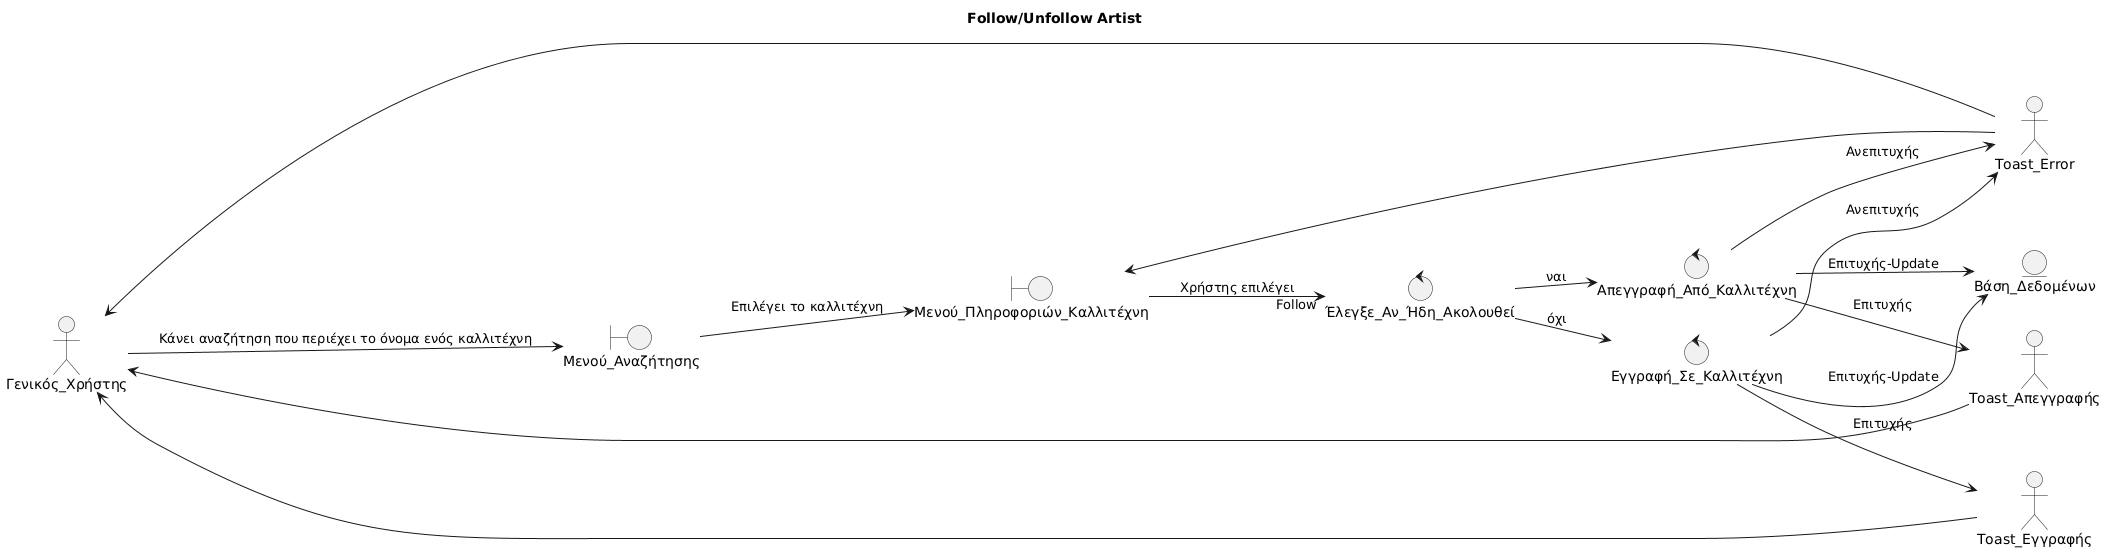
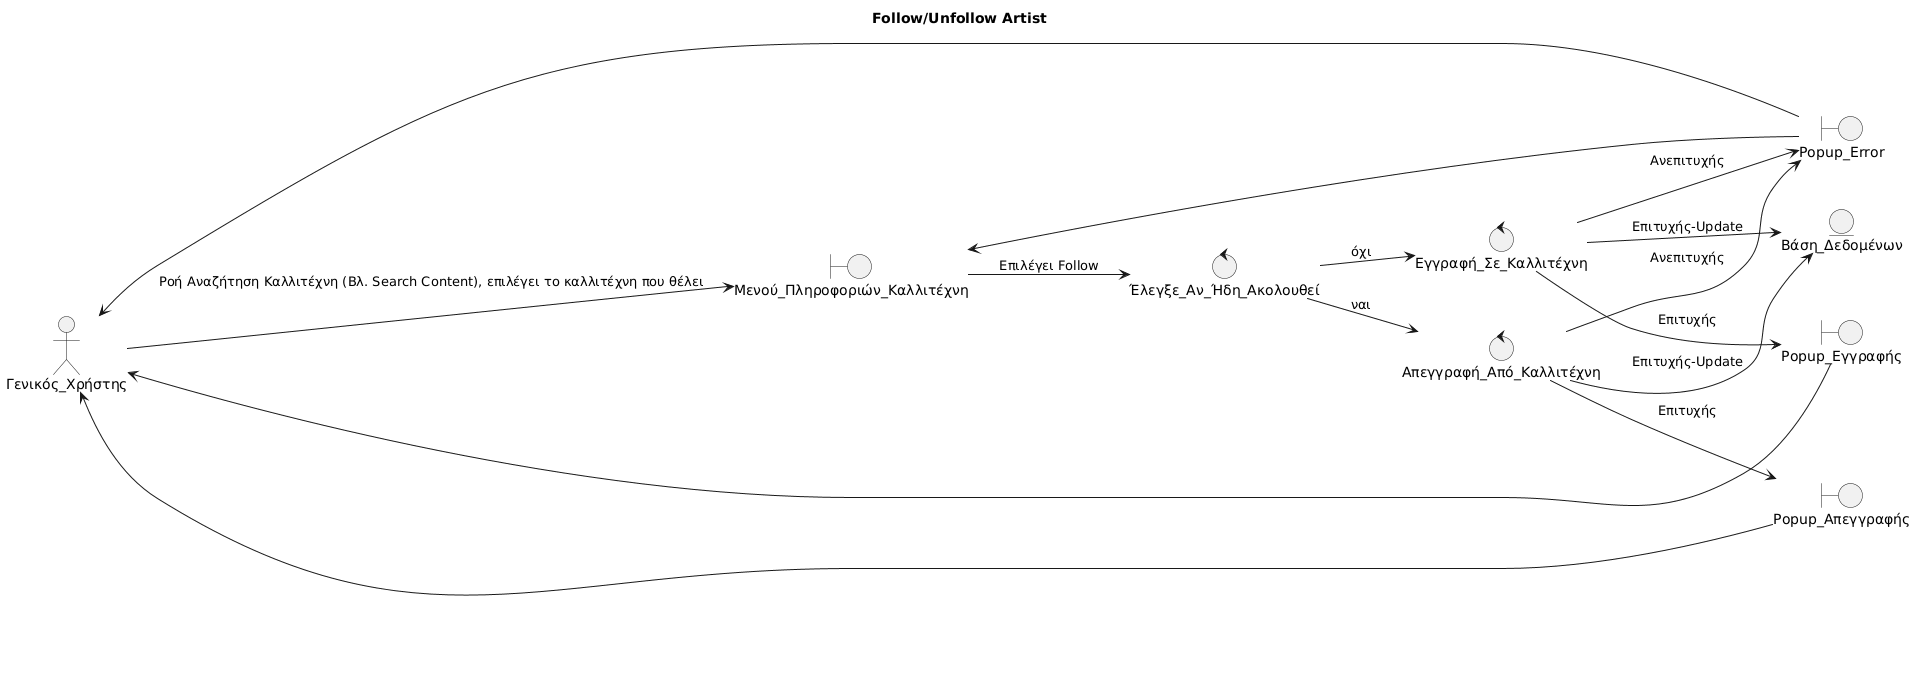
FollowUnfollowArtist Finalised, Added Search Content+DownloadSongs

diff --git a/Paradoteo_3/UseCases/Use-Cases-v0.4.md b/Paradoteo_3/UseCases/Use-Cases-v0.4.md
@@ -295,7 +295,7 @@ UC_Moderation ..> UC_Notifications : <<include>>
 7.α.3 Επιστροφή στη Βασική Ροή στο βήμα 5
 
 # Βασική Ροή "Αναζήτηση Περιεχομένου"
-Η παρούσα περίπτωση χρήσης αποτελεί γενίκευση των περιπτώσεων χρήσης: "Αναζήτηση Άλμπουμ", "Αναζήτηση Τραγουδιού", "Αναζήτηση Καλλητέχνη".
+Η παρούσα περίπτωση χρήσης αποτελεί γενίκευση των περιπτώσεων χρήσης: "Αναζήτηση Άλμπουμ", "Αναζήτηση Τραγουδιού", "Αναζήτηση Καλλιτέχνη".
 1. Ο Χρήστης επιλέγει από το μενού πλοήγησης την επιλογή "Αναζήτηση"
 2. Το σύστημα εμφανίζει την οθόνη αναζήτησης
 3. Ο Χρήστης εισάγει το όνομα του περιεχομένου που θέλει να αναζητήσει
@@ -309,7 +309,7 @@ UC_Moderation ..> UC_Notifications : <<include>>
 Η παρούσα περίπτωση χρήσης γενικέυεται από την περίπτωση χρήσης "Αναζήτηση Περιεχομένου"
 Στο Βήμα 3: Ο Χρήστης εισάγει τον τίτλο του άλμπουμ και επιλέγει στα φίλτρα το είδος περιεχομένου "Album"
 Στο Βήμα 4: Το σύστημα αναζητά μόνο άλμπουμ με αυτόν τον τίτλο στην βάση δεδομένων 
-Στο Βήμα 5: Το σύστημα εμφανίζει τα άλμπουμ που βρήκε στην οθόνη αναζήτησης, και κάτω από κάθε άλμπουμ εμφανίζονται τα δημοφιλέστερα τραγούδια του άλμπουμ
+Στο Βήμα 5: Το σύστημα εμφανίζει τα άλμπουμ που βρήκε στην οθόνη αναζήτησης, και κάτω από κάθε άλμπουμ εμφανίζονται τα 2 δημοφιλέστερα τραγούδια του άλμπουμ
 
 # Βασιική Ροή "Αναζήτηση Τραγουδιού"
 Η παρούσα περίπτωση χρήσης γενικέυεται από την περίπτωση χρήσης "Αναζήτηση Περιεχομένου"
@@ -318,15 +318,15 @@ UC_Moderation ..> UC_Notifications : <<include>>
 Στο Βήμα 4: Το σύστημα αναζητά μόνο τραγούδια με αυτόν τον τίτλο στην βάση δεδομένων
 Στο Βήμα 5: Το σύστημα εμφανίζει στην οθόνη αποτελεσμάτων αναζήτησης τα τραγούδια που βρέθηκαν
 
-# Βασική Ροή "Αναζήτηση Καλλητέχνη"
+# Βασική Ροή "Αναζήτηση Καλλιτέχνη"
 Η παρούσα περίπτωση χρήσης γενικέυεται από την περίπτωση χρήσης "Αναζήτηση Περιεχομένου"
 Οι αλλαγές είναι οι εξής:
 Στο Βήμα 3: Ο Χρήστης εισάγει το όνομα του καλλητέχνη και επιλέγει στα φίλτρα το είδος περιεχομένου "Artist"
-Στο Βήμα 4: Το σύστημα αναζητά μόνο καλλητέχνες με αυτό το όνομα στην βάση δεδομένων
+Στο Βήμα 4: Το σύστημα αναζητά μόνο καλλιτέχνες με αυτό το όνομα στην βάση δεδομένων
 Στο Βήμα 5: Το σύστημα εμφανίζει στην οθόνη αποτελεσμάτων αναζήτησης τους καλλητέχνες που βρέθηκαν, και κάτω από κάθε καλλητέχνη εμφανίζεται το δημοφιλέστερο του τραγούδι
 
 # Βασική Ροή "Ακολούθηση Καλλιτέχνη"
-1. Εκτελεση Βασικής Ροής "Αναζήτηση Καλλητέχνη"
+1. Εκτελεση Βασικής Ροής "Αναζήτηση Καλλιτέχνη"
 2. Ο Χρήστης επιλέγει τον Καλλιτέχνη που θέλει να ακολουθησει από την οθόνη αποτελεσμάτων αναζήτησης
 3. Το σύστημα εμφανίζει την οθόνη πληροφοριών του καλλιτέχνη
 4. Ο Χρήστης επιλέγει το κουμπι "Follow" από την οθόνη πληροφοριών του καλλιτέχνη
@@ -342,7 +342,7 @@ UC_Moderation ..> UC_Notifications : <<include>>
 6.α.3 Επιστροφή στο βήμα 8
 
 ## Εναλλακτική Ροή 2
-9.α.1 Η εγγραφή ήταν ανεπιτυχής, το σύστημα εμφανίζει οθόνη αποτυχίας στο χρήστη και τον επιστρέφει στην οθόνη πληροφοριών του Καλλιτέχνη για να δοκιμάσει ξανά
+9.α.1 Η εγγραφή ήταν ανεπιτυχής για οποιοδήποτε λόγο, το σύστημα εμφανίζει οθόνη αποτυχίας στο χρήστη και τον επιστρέφει στην οθόνη πληροφοριών του Καλλιτέχνη για να δοκιμάσει ξανά
 
 # Βασική Ροή "Κατέβασμα Τραγουδιού"
 1. Εκτελεση Βασικής Ροής "Αναζήτηση Τραγουδιού"